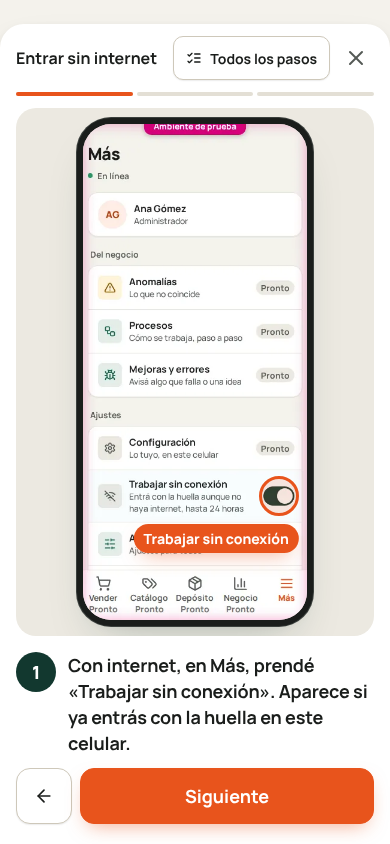
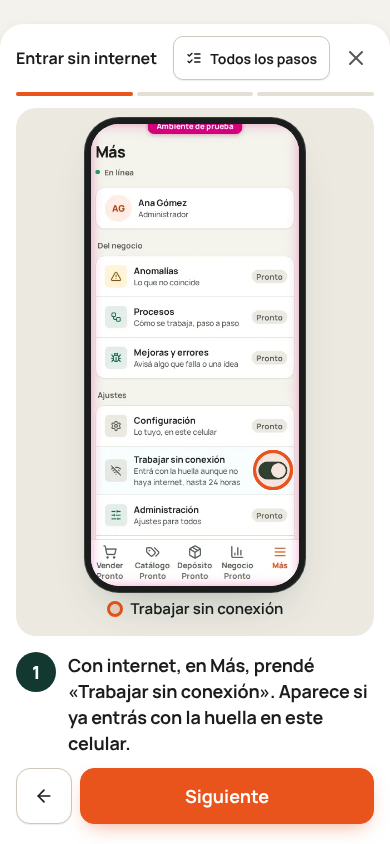
Manual: el rótulo del punto, afuera de la captura
Carlos vio que «Continuar con Google» en naranja, sobre la captura del
celular, parecía un botón de la pantalla. El aro queda sobre la captura y su
nombre pasa a una leyenda debajo, en el gris del escenario. De paso, el aro
de Google en la computadora caía arriba del botón.

Claude-Session: https://claude.ai/code/session_01BmbhiYJAfQvWshUgYzn7JL

Changed region(s): [[0.1846, 0.1232, 0.8308, 0.7701], [0.3692, 0.1232, 0.6154, 0.1848]]

diff --git a/docs/design/mockups/manual/final/manual.css b/docs/design/mockups/manual/final/manual.css
@@ -25,13 +25,10 @@ body.alt .kbd-alt { display: inline-flex; }
 .punto-toque::before { background: rgba(232, 84, 28, .14); }
 .punto-toque::after { animation: latido 1.6s var(--curva) infinite; }
 @keyframes latido { from { transform: scale(1); opacity: .9; } to { transform: scale(2); opacity: 0; } }
-.punto-rotulo { position: absolute; transform: translate(-50%, 28px); white-space: nowrap; background: var(--accion); color: #fff; font-weight: 750; font-size: 14px; padding: 4px 10px; border-radius: 99px; box-shadow: var(--sombra-accion); pointer-events: none; }
-.punto-rotulo.der { transform: translate(calc(-100% + 20px), 28px); }
-.punto-rotulo.izq { transform: translate(-20px, 28px); }
-/* Cerca del borde de abajo, el rótulo va arriba del punto */
-.punto-rotulo.arriba { transform: translate(-50%, calc(-100% - 28px)); }
-.punto-rotulo.arriba.der { transform: translate(calc(-100% + 20px), calc(-100% - 28px)); }
-.punto-rotulo.arriba.izq { transform: translate(-20px, calc(-100% - 28px)); }
+/* La leyenda del punto: afuera de la captura, en el gris del escenario, para que no se lea como
+   parte de la pantalla. El aro repite el del punto. */
+.punto-leyenda { display: flex; align-items: center; gap: 8px; margin: 0; color: var(--tinta); font-size: 15px; font-weight: 650; }
+.punto-ref { flex: none; width: 16px; height: 16px; border-radius: 99px; border: 3px solid var(--accion); background: rgba(232, 84, 28, .14); }
 
 /* «Pronto»: los capítulos que no están escritos (solo en el ambiente de pruebas) */
 .pronto { display: inline-flex; align-items: center; height: 24px; padding: 0 8px; border-radius: 99px; background: var(--hundido-2); color: var(--texto-2); font-size: 14px; font-weight: 700; }
@@ -126,7 +123,7 @@ body { overflow: hidden; }
 .guia-cerrar { display: none; }
 
 .escenario { grid-area: esc; position: relative; min-height: 0; border-radius: 20px; background: var(--hundido); overflow: hidden; touch-action: pan-y; }
-.capa { position: absolute; inset: 0; display: grid; place-items: center; padding: 20px; transition: opacity var(--t-nav), transform var(--t-nav) var(--curva); }
+.capa { position: absolute; inset: 0; display: grid; grid-template-rows: minmax(0, 1fr); grid-auto-rows: auto; gap: 12px; place-items: center; padding: 20px; transition: opacity var(--t-nav), transform var(--t-nav) var(--curva); }
 .capa.entra { opacity: 0; transform: translateX(24px); }
 .capa.entra.atras { transform: translateX(-24px); }
 .capa.sale { opacity: 0; transform: translateX(-24px); }

diff --git a/docs/design/mockups/manual/final/manual.js b/docs/design/mockups/manual/final/manual.js
@@ -68,15 +68,17 @@
 
   /* ---------- El paso a paso ---------- */
   function hotHTML(st) {
-    var cls = (st.hot[0] > 65 ? " der" : st.hot[0] < 35 ? " izq" : "") + (st.hot[1] > 80 ? " arriba" : "");
-    return '<span class="punto-toque" style="left:' + st.hot[0] + '%;top:' + st.hot[1] + '%"></span>' +
-      '<span class="punto-rotulo' + cls + '" style="left:' + st.hot[0] + '%;top:' + st.hot[1] + '%">' + st.label + '</span>';
+    return '<span class="punto-toque" style="left:' + st.hot[0] + '%;top:' + st.hot[1] + '%"></span>';
+  }
+  /* El rótulo va afuera de la captura, como leyenda: adentro parecía un botón de la pantalla */
+  function legendHTML(st) {
+    return '<p class="punto-leyenda"><span class="punto-ref" aria-hidden="true"></span>' + st.label + '</p>';
   }
   function capClass(name) { return name.indexOf("phone") === 0 ? "celu-cap" : "compu"; }
   function layerHTML(st) {
     if (st.cap) {
       lastCap = st;
-      return '<div class="captura ' + capClass(st.cap) + '"><img src="' + M.cap(st.cap) + '" alt="Captura: ' + M.escape(st.label) + '">' + hotHTML(st) + '</div>';
+      return '<div class="captura ' + capClass(st.cap) + '"><img src="' + M.cap(st.cap) + '" alt="Captura: ' + M.escape(st.label) + '">' + hotHTML(st) + '</div>' + legendHTML(st);
     }
     /* Paso sin captura propia: un ícono grande sobre la captura anterior velada */
     var bg = lastCap ? '<div class="captura ' + capClass(lastCap.cap) + '"><img src="' + M.cap(lastCap.cap) + '" alt=""></div>' : "";

diff --git a/docs/design/mockups/manual/final/content.js b/docs/design/mockups/manual/final/content.js
@@ -50,7 +50,7 @@
         { id: "d-google", title: "Entrar con Google", icon: "log-in",
           lead: "Si no tenés el celular a mano.",
           steps: [
-            { t: "Tocá «Continuar con Google».", cap: "desktop-entrance", hot: [78, 58.5], label: "Continuar con Google" },
+            { t: "Tocá «Continuar con Google».", cap: "desktop-entrance", hot: [78, 65.5], label: "Continuar con Google" },
             { t: "Elegí tu cuenta. Después de salir, Google siempre te pregunta cuál." },
             { t: "Entrás a Ferrebress, a la primera opción del menú." }
           ],

diff --git a/docs/chapters/00-app/rules.md b/docs/chapters/00-app/rules.md
@@ -115,7 +115,9 @@ Vale solo en la computadora: en el celular no hay atajos ni marca.
   en «Entrar», donde lo busca quien no puede entrar; «Trabajar sin conexión» lleva ahí.
 - **R6.5** Cada capítulo tiene texto simple, para quien atiende una ferretería sin saber de
   informática, pasos y capturas de la aplicación de verdad. Las capturas y los clips se sacan sin
-  el marco ni el cartel del ambiente de pruebas, y con datos de una cuenta de demostración. Un clip
+  el marco ni el cartel del ambiente de pruebas, y con datos de una cuenta de demostración. Lo que
+  el manual señala en una captura se marca con un aro, y su nombre va afuera, como leyenda, para que
+  no se confunda con la pantalla. Un clip
   solo donde la funcionalidad es lo bastante grande para verla en video; es un video de la
   aplicación programada, arranca cuando se lo pide, sin sonido.
 - **R6.6** Tiene un buscador: muestra lo encontrado del dispositivo elegido, con su capítulo, y lleva

diff --git a/docs/design/mockups/manual/final/changes.md b/docs/design/mockups/manual/final/changes.md
@@ -120,5 +120,8 @@ el celular (390 × 844).
   paso.
 - **El clip** queda en la maqueta como dos capturas; en la aplicación es un video mudo de la
   aplicación programada (00 · R6.5).
+- **El rótulo del punto va afuera de la captura,** como leyenda debajo, con el mismo aro: adentro,
+  naranja y redondeado, parecía un botón de la pantalla. El aro sigue sobre la captura.
+  `screenshot-phone-google.png` lo muestra en el celular.
 - **Las capturas y los clips del manual de verdad** se sacan sin el marco ni el cartel del ambiente
   de pruebas, con una cuenta de demostración (00 · R6.5). Las de esta maqueta los tienen.
